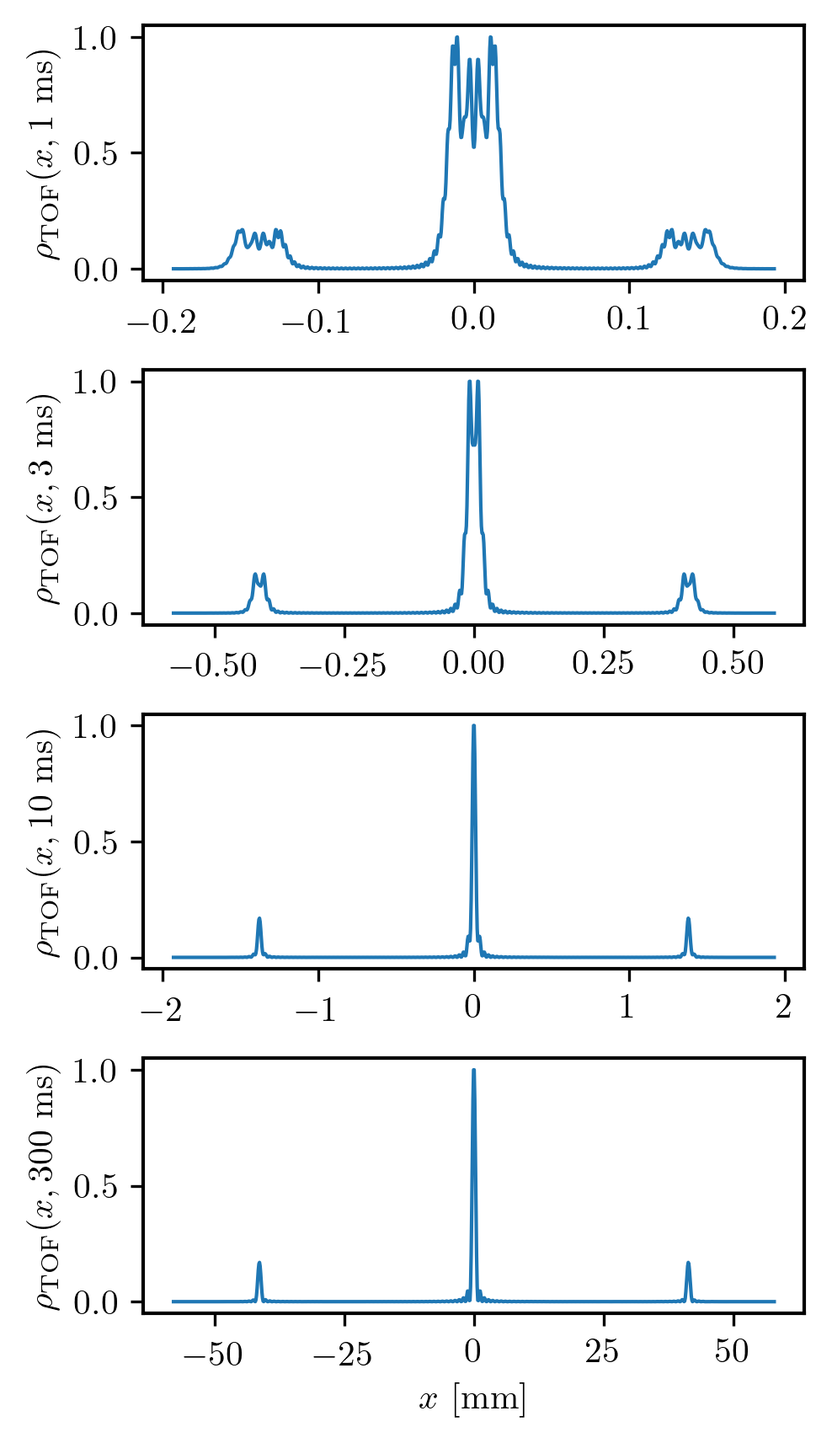
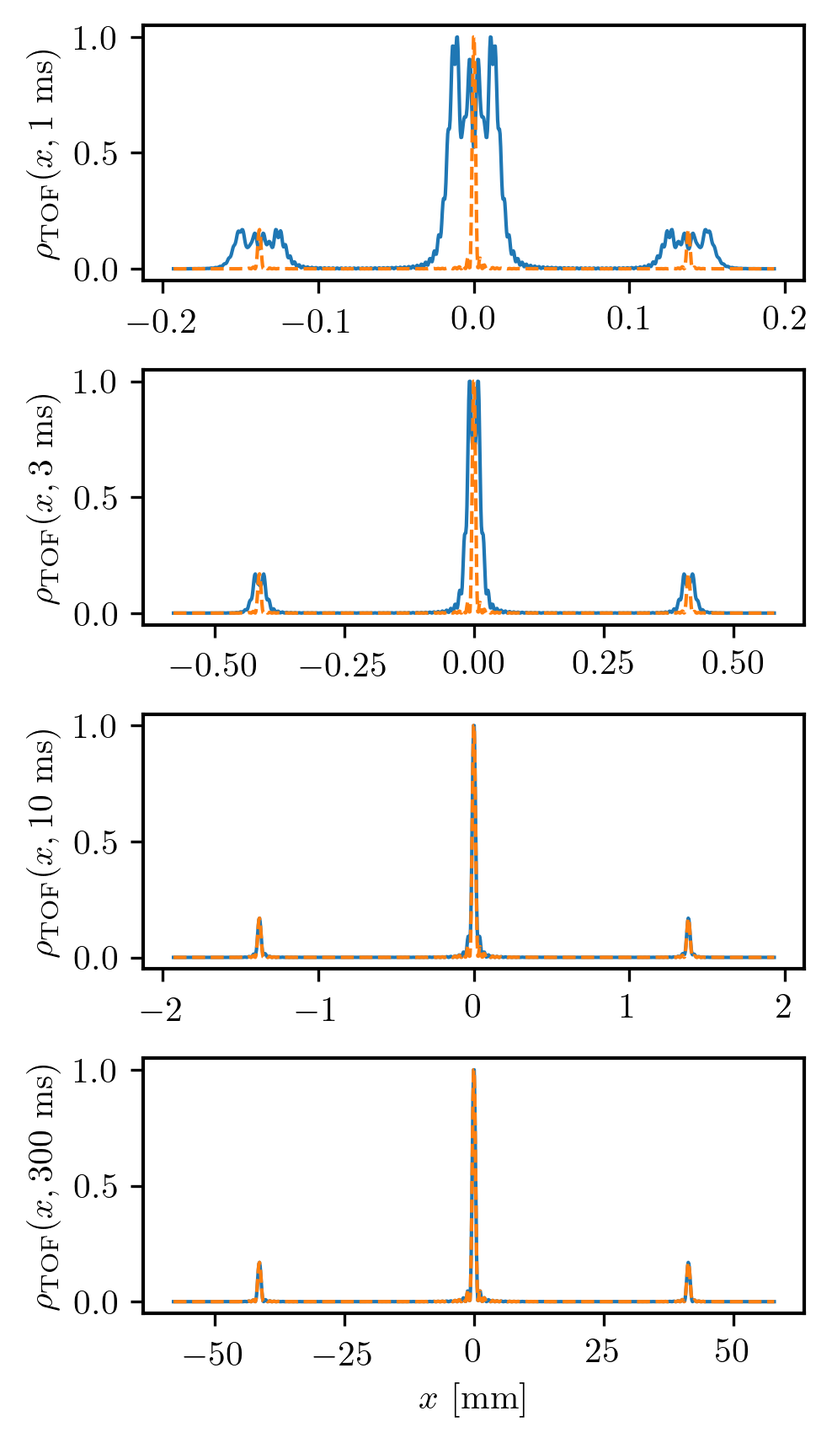
corrections chapitre 2

diff --git a/Chapters/Chapter2_BH_Model.tex b/Chapters/Chapter2_BH_Model.tex
@@ -4,9 +4,9 @@
 
 \label{sec:chapter_2}
 
-Quantum gases loaded in optical lattices (lattice gases for short) are one of the paramount examples of Quantum Simulation systems. The periodical trapping potential indeed well reproduces the crystal structure of condensed matter system and allows to study relatively simple Hamiltonians such as the Bose-Hubbard Hamiltonian or the Ising model \cite{bloch2005ultracold} that however account for interactions and show strong correlations effects. The main advantages of this experimental platform is that the different parameters of the Hamiltonians are easily set and controlled, while information about the system are relatively easy to access via quantum microscopes \cite{bakr2009quantum} for the in-situ positions of the atoms or Time-Of-Flight experiments to access the momentum distribution as it is the case in this manuscript. The experimental observation of the Superfluid to Mott Insulator transition in 2002 \cite{greiner2002quantum} sparked interest in the community and lead to the development of the field from the early 2000s up until this day.
+Quantum gases loaded in optical lattices (lattice gases for short) are one of the paramount examples of Quantum Simulation systems. The periodical trapping potential indeed well reproduces the crystal structure of condensed matter system and allows to study relatively simple Hamiltonians such as the Bose- and Fermi-Hubbard Hamiltonians or the Ising model \cite{bloch2005ultracold} that however account for interactions and show strong correlations effects. The main advantages of this experimental platform is that the different parameters of the Hamiltonians are easily set and controlled, while information about the system are relatively easy to access via quantum microscopes \cite{bakr2009quantum} for the in-situ positions of the atoms or Time-Of-Flight experiments to access the momentum distribution as it is the case in this manuscript. Following the proposition of \cite{jaksch1998cold}, the experimental observation of the Superfluid to Mott Insulator transition in 2002 \cite{greiner2002quantum} sparked interest in the community and lead to the development of the field from the early 2000s up until this day.
 
-In this chapter, we will detail the main elements of the Bose-Hubbard theory of lattice gases and briefly study the Superfluid to Mott insulator transition. We will then show how and under which conditions the in-trap momentum distribution of the gas can be accessed through Time-Of-Flight measurements, before drawing the connection with the Bogoliubov theory exposed in Chapter \ref{sec:chapter_1}. The goal of this chapter is to give all the essential points necessary to obtain a system in which the \kmk pairs of the quantum depletion can be experimentally observed, rather than providing a detailled description of Bose-Hubbard physics. For a more thorough study of the Superfluid to Mott Insulator transition with our experimental apparatus, we refer the reader to the manuscript of Cécile Carcy \cite{carcy_these}.
+In this chapter, we expose the main elements of the Bose-Hubbard theory of lattice gases and briefly study the Superfluid to Mott insulator transition. We then show how and under which conditions the in-trap momentum distribution of the gas can be accessed through Time-Of-Flight measurements, before drawing the connection with the Bogoliubov theory exposed in Chapter \ref{sec:chapter_1}. The goal of this chapter is to give all the essential points necessary to obtain a system in which the \kmk pairs of the quantum depletion can be experimentally observed, rather than providing a detailled description of Bose-Hubbard physics. For a more thorough study of the Superfluid to Mott Insulator transition with our experimental apparatus, we refer the reader to the manuscript of Cécile Carcy \cite{carcy_these}.
 
 
 
@@ -21,9 +21,9 @@ We consider a 3D lattice potential with cubic symmetry and spacing $d$:
     V(\bm{r})=V_{0}\left[\sin ^{2}\left(\frac{k_{d}}{2} x\right)+\sin ^{2}\left(\frac{k_{d}}{2} y\right)+\sin ^{2}\left(\frac{k_{d}}{2} z\right)\right] + V_{\mathrm{ext}} (x,y,z)
 \end{equation}
 
-\noindent where $k_d=\frac{2 \pi}{d}$ is the associated wavevector, $V_0$ the lattice depth. For convenience, $V_0$ is usually expressed in units of recoil energy $V_0 = s E_{\rm{r}}$ with $E_r=h^2/ 8 m d^2$. The term $V_{\mathrm{ext}} (x,y,z)$ denotes a harmonic potential related to the Gaussian shape of the lattice beams. For simplicity of calculations, we will first treat here the homogeneous case $V_{\mathrm{ext}} (x,y,z)=0$.
+\noindent where $k_d=\frac{2 \pi}{d}$ is the associated wavevector, $V_0$ the lattice depth. For convenience, $V_0$ is usually expressed in units of recoil energy $V_0 = s E_{\rm{r}}$ with $E_r=h^2/ 8 m d^2$. In most experiments, such a potential is created with countra-propagating pairs of Gaussian laser beams. The term $V_{\mathrm{ext}} (x,y,z)$ denotes the additional harmonic potential that results from the Gaussian shape of the beams. For simplicity of calculations, we will first treat here the homogeneous case $V_{\mathrm{ext}} (x,y,z)=0$.
 
-We consider an ensemble of $N$ atoms that interact with one another with the potential $U_{\rm{int}} ( \bm{r}_1, \bm{r}_2)$ loaded in the lattice potential $V(\bm{r})$. The Hamiltonian of the system writes:
+We consider an ensemble of $N$ bosons that interact with one another with the potential $U_{\rm{int}} ( \bm{r}_1, \bm{r}_2)$ loaded in the lattice potential $V(\bm{r})$. The Hamiltonian of the system writes:
 
 \begin{equation}
     \hat{H}=\sum_{i=1}^{N} \frac{\bm{p}_{i}^{2}}{2 m}+\sum_{i=1}^{N} V\left(\bm{r}_{i}\right) + \sum_{i}^{N} \sum_{j>i}^{N} U_{\text{int}}\left(\bm{r}_{i}, \bm{r}_{j}\right)
@@ -32,7 +32,7 @@ We consider an ensemble of $N$ atoms that interact with one another with the pot
 
 \subsubsection{Non-interacting lattice gas}
 
-To begin, we will consider that the atoms are non-interacting and study the simplified Hamiltonian:
+To begin with, we consider that the atoms are non-interacting and study the simplified Hamiltonian:
 
 \begin{equation}
     \hat{H}_0=\sum_{i=1}^{N} \frac{\bm{p}_{i}^{2}}{2 m}+\sum_{i=1}^{N} V\left(\bm{r}_{i}\right)
@@ -132,7 +132,7 @@ We can now re-write the Hamiltonian of the system with the newly introduced Wann
 
 \noindent This expression tells that the probability for a particle to tunnel from lattice site $j$ to $j'$ is reduced as the distance between the two sites $j$ and $j'$ increases and as the potential barrier, \ie the lattice depth, increases.
 
-As for the rest of this thesis, we will focus ourselves on the ground-state properties of the system and therefore assume that the lowest energy band is the only one populated. This assumption is valid as long as $V_0 \geq 2.2 \ E_{\rm{r}}$ at which the gap is opening. In addition, for $V_0 \geq 3 \ E_{\rm{r}}$, we can use the tight-binding approximation for which only the tunneling events between adjacent sites are non-negligible. We thus simplify the Hamiltonian \ref{eq:H_Jn} by replacing  $J_{n}\left(j-j^{\prime}\right)$ by a constant $J$ denoting the probability to tunnel between adjacent lattice sites that we define as:
+As for the rest of this thesis, we will focus ourselves on the ground-state properties of the system and therefore assume that the lowest energy band is the only one populated. This assumption is valid as long as $V_0 \geq 2.2 \ E_{\rm{r}}$ at which the gap is opening and the typical excitation energy $\Delta E$ is small than the gap $\Delta=E_1-E_0$. In addition, for $V_0 \geq 5 \ E_{\rm{r}}$ \cite{gerbier_notes}, we can use the tight-binding approximation for which only the tunneling events between adjacent sites are non-negligible. We thus simplify the Hamiltonian \ref{eq:H_Jn} by replacing  $J_{n}\left(j-j^{\prime}\right)$ by a constant $J$ denoting the probability to tunnel between adjacent lattice sites that we define as:
 
 \begin{equation}
     J=-J_0(1)
@@ -174,13 +174,13 @@ We now turn to studying the interaction term that we had left out in the full Ha
     \label{eq:h_int_intermediate}
 \end{equation}
 
-\noindent which is still a fairly complicated expression. We can however greatly simplify it by considering that the Wannier functions become narrower as the lattice depth increases. The overlap between the Wannier functions of the different lattice sites then becomes increasingly negligible. This means that the integral of equation \ref{eq:h_int_intermediate} is non zero only if $j_1=j_2=j_3=j_4$, \ie if we only consider on-site interactions. In the end, the interaction Hamiltonian writes:
+\noindent which is still a fairly complicated expression. We can however greatly simplify it by considering that the Wannier functions become narrower as the lattice depth increases. The overlap between the Wannier functions of the different lattice sites then becomes increasingly negligible. This means that the integral of equation \ref{eq:h_int_intermediate} is non zero only if $j_1=j_2=j_3=j_4$, \ie if we only consider on-site interactions. This is called the tight-binding approximation. In the end, the interaction Hamiltonian writes:
 
 \begin{equation}
     \hat{H}_{\rm{int}}=\frac{U_{\mathrm{1D}}}{2} \sum_j \hat{n}_j (\hat{n}_j -1)
 \end{equation}
 
-\noindent where we have introduced the on-site energy $U_{\mathrm{1D}}=g \int\left|w_{0,0}(x)\right|^{4} \mathrm{d}x$, easily generalized to the 3D case with $U=g \int(\left|w_{0,0}(x)\right|^{4} \mathrm{d}x)^3$. 
+\noindent where we have introduced the on-site energy $U_{\mathrm{1D}}=g \int\left|w_{0,0}(x)\right|^{4} \mathrm{d}x$, easily generalized to the 3D case with $U=g (\int\left|w_{0,0}(x)\right|^{4} \mathrm{d}x)^3$. 
 
 Combining this Hamiltonian to the non-interacting Hamiltonian of equation \ref{eq:H_band}, we reach the form of the famous \textbf{Bose-Hubbard Hamiltonian}:
 
@@ -188,7 +188,7 @@ Combining this Hamiltonian to the non-interacting Hamiltonian of equation \ref{e
     \hat{H}_{\mathrm{BH}}= -J \sum_{\mean{i,j}} \hat{b}^{\dagger}_i \hat{b}_j + \frac{U}{2} \sum_j \hat{n}_j (\hat{n}_j -1)
 \end{equation}
 
-\noindent Interestingly, the physics of the homogeneous ground-state depends only from the two parameters $J$ and $U$ as we will see in the next paragraph. In particular, the ratio $u=U/J$ depends from the lattice depth $V_0$ as illustrated on Fig-\ref{fig:U_J_vs_s}. This parameter is easily controllable in an experiment, for instance by changing the power of the laser beams used to produce the lattice potential. 
+\noindent The physics of the homogeneous ground-state depends only from the two parameters $J$ and $U$ as we will see in the next paragraph. Interestingly, the ratio $u=U/J$ depends from the lattice depth $V_0$ as illustrated on Fig-\ref{fig:U_J_vs_s}. The parameter $u$ is therefore easily controllable in an experiment over orders of magnitude, for instance by changing the power of the laser beams used to produce the lattice potential. 
 
 \begin{figure}
     \centering
@@ -200,7 +200,7 @@ Combining this Hamiltonian to the non-interacting Hamiltonian of equation \ref{e
 \begin{figure}
     \centering
     \includegraphics[width=\textwidth]{Fig/Chapter2/U_J_vs_s.png}
-    \caption[Evolution of $U$, $J$ and the ratio $U/J$ as a function of the lattice depth in log-scale]{Evolution of $U$, $J$ and the ratio $U/J$ as a function of the lattice depth in log-scale.}
+    \caption[Evolution of $U$, $J$ and the ratio $U/J$ as a function of the lattice depth in log-scale]{Evolution of $U$, $J$ and the ratio $U/J$ as a function of the lattice depth in log-scale from a numerical calculation with Wannier functions.}
     \label{fig:U_J_vs_s}
 \end{figure}
 
@@ -212,7 +212,7 @@ We discuss in this section the properties of the Bose-Hubbard Hamiltonian ground
 
 \subsubsection{Perfect superfluid (SF) phase $\bm{u \to 0}$}
 
-In this case, the particles are non-interacting. In these conditions, the ground-state $\ket{\Psi_0}$ of the N particles system is simply the product of the single particle ground state wave-functions, \ie the Bloch wave-functions for $q=0$ \cite{bloch2008many}:
+In this case, the particles are non-interacting. In these conditions, the ground-state $\ket{\Psi_0}$ of the $N$ particles system is simply the product of the single particle ground state wave-functions, \ie the Bloch wave-functions for $q=0$ \cite{bloch2008many}:
 
 \begin{equation}
     \ket{\Psi_0}_{\mathrm{SF}} = \frac{1}{\sqrt{N!}} (\hat{c}^{\dagger}(\bm{q}=0))^N \ket{0} = \frac{1}{\sqrt{N !}}\left(\frac{1}{\sqrt{M}} \sum_{j=1}^{M} \hat{b}_{j}^{\dagger}\right)^{N} \ket{0}
@@ -233,7 +233,7 @@ In this case, the particles are non-interacting. In these conditions, the ground
 
 \noindent with $\alpha_i=\sqrt{\bar{n}} \ \forall i \in \Z$ and the normalization factor $\mathcal{N}_{i}=e^{-\left|\alpha_{i}\right|^{2} / 2}$. We thus find that the ground state can be described as a product of local coherent states associated to the different lattice sites.
 
-As we did in Chapter \ref{sec:chapter_1}, we can write the first-order correlation function between two different lattice sites $i$ and $j$ to characterize the coherence properties of the ground-state:
+As in Chapter \ref{sec:chapter_1}, we write the first-order correlation function between two different lattice sites $i$ and $j$ to characterize the coherence properties of the ground-state:
 
 \begin{equation}
     G^{(1)}(i,j)= \mean{\hat{b}^{\dagger}_i \hat{b}_j}
@@ -266,16 +266,16 @@ Because of the strong repulsive interactions, the particle localize on the latti
 \noindent This state is called the \textbf{Mott insulator} state \cite{fisher1989boson}. The first-order correlation function now writes
 
 \begin{equation}
-     G^{(1)}(i,j)= {}_{\mathrm{MI}} \bra{\Psi_0} \hat{b}^{\dagger}_i \hat{b}_j \ket{\Psi_0}_{\mathrm{MI}} = \delta_{i,j}
+     G^{(1)}(i,j)= {}_{\mathrm{MI}} \bra{\Psi_0} \hat{b}^{\dagger}_i \hat{b}_j \ket{\Psi_0}_{\mathrm{MI}} = \delta_{i,j} \bar{n}
 \end{equation}
 
-\noindent and is zero when we consider any pair of different lattice sites with $i \neq j$. In the limit $J \to 0$, the system is therefore incoherent.
+\noindent and is zero when we consider any pair of different lattice sites with $i \neq j$. In the limit $J \to 0$, the system is therefore fully incoherent.
 
 
 
 \subsection{The zero-temperature Mott phase transition}
 
-What can then be said from intermediates values of $U/J$? If we start from the case $J=0$ and progressively start increasing $J$, it becomes possible for the atoms to hop from site to site. When an atom hops to an adjacent site, the occupancy is increased, increasing the energy by $U$. When the gain in kinetic energy $J$ is smaller than $U$, this process is unfavorable and the atoms remain localized on the lattice sites. However, when $J$ is larger than $U$, the gain in kinetic energy outweighs the effect of the interactions and the atoms hop through the different sites of the lattice. The ground-state of the Bose-Hubbard then undergoes a phase transition as $U/J$ varies from an \textbf{insulating phase} to a \textbf{superfluid phase} with very different properties.
+What can then be said from intermediates values of $u=U/J$? If we start from the case $J=0$ and progressively start increasing $J$, it becomes possible for the atoms to hop from site to site. When an atom hops to an adjacent site, the occupancy is increased, increasing the energy by $U$. When the gain in kinetic energy $J$ is smaller than $U$, this process is unfavorable and the atoms remain localized on the lattice sites. However, when $J$ is larger than $U$, the gain in kinetic energy outweighs the effect of the interactions and the atoms hop through the different sites of the lattice. The ground-state of the Bose-Hubbard then undergoes a phase transition as $U/J$ varies from an \textbf{insulating phase} to a \textbf{superfluid phase} with very different properties.
 
 \begin{minipage}[t]{0.45\textwidth}
     \noindent \textbf{Superfluid phase}
@@ -284,13 +284,13 @@ What can then be said from intermediates values of $U/J$? If we start from the c
         \item The condensed fraction is non zero.
         \item The system shows long range coherence, \ie the phase is fixed.
         \item The on-site number of atoms is fluctuating.
-        \item For low values of $u$ far from the transition, the effect of interaction is small, so that we can use the Bogoliubov approximation as we will detail later in this chapter. We find that the excitation spectrum is gapless and phonon-like at low $q$.
+        \item For low values of $u$ (far from the transition), the effect of interaction is small, so that we can use the Bogoliubov approximation (detailled later in this chapter). We find that the excitation spectrum is gapless and phonon-like at low $q$.
     \end{itemize}
 \end{minipage}
 \begin{minipage}[t]{0.48\textwidth}
     \noindent \textbf{Insulating phase}
     \begin{itemize}
-        \item The atoms are well localized on the lattice sites.
+        \item The atoms are localized on the lattice sites.
         \item The condensed fraction is zero.
         \item The system is incoherent, the phase is fluctuating.
         \item The on-site number of atoms is well defined and non fluctuating.
@@ -307,7 +307,7 @@ What can then be said from intermediates values of $U/J$? If we start from the c
 
 \subsubsection{Phase diagram}
 
-In the homogeneous case, the properties of the system thus change dramatically when $u$ crosses the \textbf{Quantum Critical Point} (QCP) $u_c$. To discuss the value of $u_c$, we slightly complexify our model where we had only considered commensurate fillings, thus fixing the chemical potential that we now set to be a free parameter. We plot on Fig.-\ref{fig:mott_lobes} the full phase diagram function of $\mu/U$, set by the filling in the Mott insulator phase $\bar{n}$ and $J/U$. As the system is homogeneous, the filling $\bar{n}$ is independent of $u$. The grey dashed lines correspond to iso-filling lines for a given value of $\bar{n}$. For commensurate fillings, the iso-filling lines cross the Mott stability lobes at the critical ratio $u_c$ that increases as the filling increases. If the filling is however incommensurate (line $n=1+\varepsilon$), we notice that the system remains in the superfluid phase as long as $J \neq 0$. This is due to the fact that a small fraction of the atoms can delocalize over the whole lattice without being blocked by the interactions $U$ as there will never be two of these particles in the same site as a consequence of the fact that the filling is incommensurate.
+In the homogeneous case, the properties of the system thus change dramatically when $u=U/J$ crosses the \textbf{Quantum Critical Point} (QCP) $u_c$. To discuss the value of $u_c$, we slightly complexify our model where we had only considered commensurate fillings, thus fixing the chemical potential that we now set to be a free parameter. We plot on Fig.-\ref{fig:mott_lobes} the full phase diagram function of $\mu/U$, set by the filling in the Mott insulator phase $\bar{n}$ and $J/U$. As the system is homogeneous, the filling $\bar{n}$ is independent of $u$. The grey dashed lines correspond to iso-filling lines for a given value of $\bar{n}$. For commensurate fillings, the iso-filling lines cross the Mott stability lobes at the critical ratio $u_c$ that increases as the filling increases. If the filling is however incommensurate (line $n=1+\varepsilon$), we notice that the system remains in the superfluid phase as long as $J \neq 0$. This is due to the fact that a small fraction of the atoms can delocalize over the whole lattice without being blocked by the interactions $U$ as there will never be two of these particles in the same site as a consequence of the fact that the filling is incommensurate.
 
 \begin{figure}
     \centering
@@ -316,24 +316,40 @@ In the homogeneous case, the properties of the system thus change dramatically w
     \label{fig:mott_lobes}
 \end{figure}
 
+The value of $u_c$ was first calculated with mean-field theories giving out the general formula holding for any dimension $u_c=5.8z$ for $\bar{n}=1$ and $u_c=4 \bar{n} z$ for $\bar{n} \gg 1$, with $z$ being the number of nearest neighbors (6 in 3D, 4 in 2D and 2 in 1D). Later on, Quantum Monte Carlo (QMC) \NOTE{first time QMC ?} calculations \cite{capogrosso2007phase} simulating the 3D system for a filling $\bar{n}=1$ found $u_c=29.3(2)$, \ie slightly lower than the mean-field prediction $u_c=34.8$. For more details on this aspect, we refer the reader the the works of our team \cite{carcy_these,herce2021studying} studying the value of $u_c$ in our experiment. 
+
+
 
 \subsection{Trapping effects}
 
 \label{sec:ch2_trapping_effects}
 
-In practice, the system is not homogeneous as we require an external harmonic potential $V_{\rm{ext}}(\bm{r})$ to trap the atoms for experiments. The properties of the trapped system can be linked to the properties of the homogeneous system by applying the Local Density Approximation\footnote{Valid as long as the trapping potential varies slowly from site to site and the system is at thermal equilibrium. This approximation may however fail at the quantum critical point \cite{pollet2012recent}.} \cite{bergkvist2004local} and replacing the chemical potential by an effective one:
+In practice, the system is often not homogeneous because of the external harmonic potential $V_{\rm{ext}}(\bm{r})$ mentioned in \ref{sec:BH_model}. The properties of the trapped system can be linked to the properties of the homogeneous system by applying the Local Density Approximation\footnote{Valid as long as the trapping potential varies slowly from site to site and the system is at thermal equilibrium. This approximation may however fail at the quantum critical point \cite{pollet2012recent}.} \cite{bergkvist2004local} and replacing the chemical potential by an effective one:
 
 \begin{equation}
     \mu_{\rm{eff}}= \mu - V_{\rm{ext}}(\bm{r})
 \end{equation}
 
-\noindent This means that the effective chemical potential, and thus the lattice filling, varies with the distance from the center of the trap. A typical situation is illustrated by the red arrow on the phase diagram of Fig.-\ref{fig:mott_lobes} where $J/U$ is small enough for Mott phases to exist and the center of the trap corresponds to a filling $\bar{n}=2$. As we get away from the center of the trap towards regions of low $\mu_{\rm{eff}}$ following the red arrow, we exit the first Mott region $\bar{n}=2$ to enter a superfluid region where the filling decreases continuously up to a second Mott region with filling $\bar{n}=1$ and finally reach a last superfluid region at the edge of the trap at vanishing values of $\mu_{\rm{eff}}$. The Mott phases are incompressible, meaning that the density remains constant even though the external trapping potential is rising, differentiating them from the superfluid region. This results in the famous ``wedding-cake'' density profile as illustrated on panel (b) of Fig.-\ref{fig:mott_lobes}.
+\noindent This means that the effective chemical potential, and thus the lattice filling, varies with the distance from the center of the trap. A typical situation is illustrated by the red arrow on the phase diagram of Fig.-\ref{fig:mott_lobes} where $J/U$ is small enough for Mott phases to exist and the center of the trap corresponds to a filling $\bar{n}=2$. As we get away from the center of the trap towards regions of low $\mu_{\rm{eff}}$ following the red arrow, we exit the first Mott region $\bar{n}=2$ to enter a superfluid region where the filling decreases continuously up to a second Mott region with filling $\bar{n}=1$ and finally reach a last superfluid region at the edge of the trap at vanishing values of $\mu_{\rm{eff}}$. The Mott phases are incompressible, meaning that the density remains constant even though the external trapping potential is rising, differentiating them from the superfluid region. This results in the famous ``wedding-cake'' density profile as illustrated on panel (b) of Fig.-\ref{fig:mott_lobes} and Fig.-\ref{fig:sherson}.
 
-\noindent For clarity sake, the system will be said to be in the Mott Insulator phase as long as a Mott plateau exists, \ie when $u > u_c$ where $u_c$ is the critical point for the corresponding homogeneous sytem.
+Actually, the external harmonic potential is quite important for experiment. If the system is homogeneous and the entropy constant, when the lattice depth is increased thus going deeper in the Mott phase, the increase of the energy gap makes it increasingly difficult for excitations to be created meaning that the temperature must increase to keep the entropy constant. In the presence of a trap however, the entropy is concentrated in the superfluid shells that can also turn to a normal gas phase, preventing the temperature of the system from increasing too much.
+
+\noindent For clarity sake, the system will be said to be in the Mott Insulator phase as long as a Mott plateau exists, \ie when $u > u_c$ where $u_c$ is the critical point for the corresponding homogeneous system.
+
+\begin{figure}
+    \centering
+    \includegraphics[width=\textwidth]{Fig/Chapter2/wedding_cake_sherson.png}
+    \caption[Visualisation of the wedding cake structure with a quantum microscope experiment]{Visualisation of the wedding cake structure with a quantum microscope experiment. The imaging technique used here allows to detect the fluorescence of atoms trapped in a single site of an optical lattice, only if the number of atoms in the site is odd. We observe that as $N$ increases, the wedding cake structure appears. Taken from \cite{sherson2010single}.}
+    \label{fig:sherson}
+\end{figure}
 
 \subsection{Finite temperature effects}
 
-If we finally consider the effect of temperature, we obtain the complete phase diagram of Fig.-\ref{fig:phase_diagram} function of $T/J$ and $u$ with the apparition of an additional phase, the normal (thermal) gas. For $u \leq u_c$, the superfluid phase undergoes a condensation transition with temperature similar to the well-known BEC transition. This transition is induced by the thermal fluctuations and is then called classical, in opposition to the Mott transition which is driven by a variations of physical parameters of the Hamiltonian and therefore is a quantum transition. On the other hand, the Mott insulator phase also goes to the normal gas phase as the temperature increases, but with a smooth crossover. Interestingly, the Superfluid to Mott Insulator transition subsists at low temperature. The green area indicates the Quantum Critical Region for which we expect the critical quantum effects of the Mott transition to survive in spite of the temperature. While the physics of the Quantum Critical Point are a very interesting and trending topic, they fall out of the scope of this thesis and we once again refer the reader to \cite{carcy_these} for more informations on this aspect.
+If we finally consider the effect of temperature, we obtain the complete phase diagram of Fig.-\ref{fig:phase_diagram} function of $T/J$ and $u$ with the apparition of an additional phase, the normal (thermal) gas. For $u \leq u_c$, the transition between the normal gas phase and the superfluid phase driven by the temperature is similar to the well-known BEC transition. This transition is induced by the thermal fluctuations and is then called classical, in opposition to the $T=0$ Mott transition which is driven by a variations of physical parameters of the Hamiltonian and therefore is a quantum transition.
+
+On the other hand, the Mott insulator phase also goes to the normal gas phase as the temperature increases, but with a smooth crossover. When $T$ increases, excitations are created preferably near the edges of the Mott plateaus, progressively smoothing out the sharp density profile of the Mott insulator phase. A Mott-like region survives until $T* \sim 0.2 \ U/k_B$ \cite{gerbier2007boson} also called the ``melting temperature'' of the Mott phase.
+
+Interestingly, the Superfluid to Mott Insulator transition subsists at low temperature. At $T=0$ and at the quantum critical point (QCP) of the transition, the ground-state undergoes a macroscopic rearrangement characterized by the apparition of critical quantum fluctuations and complex correlation patterns. Importantly, the physics of the QCP affect a signficant part of the finite temperature phase diagram as signaled by the green area on Fig.\ref{fig:phase_diagram}. In this region, some observables such as the momentum density indeed show critical behavior, \ie a power law scaling with temperature with an exponent set by the critical exponents of the QCP. While the physics of the Quantum Critical Point are a very interesting and trending topic, they fall out of the scope of this thesis and we refer the reader to the works \cite{carcy_these,frerot2019reconstructing,sachdev2011quantum} for more informations on this aspect.
 
 
 \begin{figure}
@@ -377,7 +393,14 @@ The Gutzwiller method is a \textbf{variational} approach, meaning that the groun
     G = \mean{H_{\mathrm{BH}}}_{\ket{\Psi_G}} - \mu \mean{N}_{\ket{\Psi_G}} = -J \sum_{\langle i, j\rangle} \alpha_{i}^{*} \alpha_{j}+\sum_{j} \sum_{n_{j}=0}^{\infty}\left[\frac{U}{2} n_{j}\left(n_{j}-1\right)-\mu n_{j}\right]\left|f\left(n_{j}\right)\right|^{2}
 \end{equation}
 
-\noindent with the condition $\left\langle n_{j}\right\rangle=\sum_{n_{j}=0}^{\infty}\left|f_{j}\left(n_{j}\right)\right|^{2} n_{j}=\bar{n}$. The coefficients $f(n_j)$ can be found through numerical calculations. Interestingly, following the arguments of \ref{sec:ch2_trapping_effects}, $\mu$ can be replaced by the effective $\mu_{\rm{eff}}$ to account for the effect of the external trapping potential present in our experiment.
+\noindent with the condition $\left\langle n_{j}\right\rangle=\sum_{n_{j}=0}^{\infty}\left|f_{j}\left(n_{j}\right)\right|^{2} n_{j}=\bar{n}$. The coefficients $f(n_j)$ can be found through numerical calculations. Interestingly, following the arguments of \ref{sec:ch2_trapping_effects}, $\mu$ can be replaced by the effective $\mu_{\rm{eff}}$ to account for the effect of the external trapping potential present in our experiment. We shown on Fig.-\ref{fig:wedding_cake_gutzwiller} wedding cake density profiles for various atom numbers at $s=18$ with our experimental parameters computed with the Gutzwiller method.
+
+\begin{figure}
+    \centering
+    \includegraphics[width=\textwidth]{Fig/Chapter2/wedding_cake_gutzwiller.png}
+    \caption[Gutzwiller density profiles for various atom numbers at $s=18$]{Gutzwiller density profiles for various atom numbers at $s=18$.}
+    \label{fig:wedding_cake_gutzwiller}
+\end{figure}
 
 
 \section{Accessing the in-trap momentum distribution in a Time-Of-Flight experiment}
@@ -415,7 +438,7 @@ At time $t=0$, right before the lattice potential is turned off, the atomic fiel
 
 
 
-\noindent The expression of the Wannier functions is rather complex and very hard to handle in calculations. However, we can approximate the lattice potential near a minimum to its second-order Taylor expansion, \ie approximate it to a harmonic potential of frequency $\omega_L=2 \sqrt{s} (E_{\rm{r}}/\hbar)$ \cite{toth2008theory}. As illustrated in Fig.-\ref{fig:wannier_oh}, this means that the Wannier function can be well approximated by the Gaussian wave-function of the harmonic oscillator ground state:
+\noindent The expression of the Wannier functions is rather complex and very hard to handle in calculations. However, we can approximate the lattice potential near a minimum to its second-order Taylor expansion, \ie approximate it to a harmonic potential of frequency $\omega_L=2 \sqrt{s} (E_{\rm{r}}/\hbar)$ \cite{toth2008theory}. As illustrated in Fig.-\ref{fig:wannier_oh}, the Wannier function is be well approximated by the Gaussian wave-function of the harmonic oscillator ground state for amplitudes $V_0 \gtrsim 10 \ \rm{E_r}$ (note however that this does not approximate tunelling well as a Gaussian does not show the same small oscillations as the Wannier function):
 
 \begin{figure}
     \centering
@@ -457,7 +480,9 @@ Building up on the diffraction analogy, we would like to define an analog Fraunh
     \label{eq:far_field}
 \end{equation}
 
-\noindent This condition defines the \textbf{Far-Field regime} after which the interference pattern is well developed, in analogy to the Fraunhofer regime of diffraction. Combining the different approximations, we simplify \ref{eq:time_dependent_wannier} to:
+\noindent This condition defines the \textbf{Far-Field regime} after which the interference pattern is well developed, in analogy to the Fraunhofer regime of diffraction. We note the far-field regime is accessed for smaller times for lighter particles. Using one of the lightest atom, $^4 \rm{He}$, thus makes it easier to fulfill the Far-Field regime condition in the experiment. 
+
+Combining the different approximations, we simplify \ref{eq:time_dependent_wannier} to:
 
 \begin{equation}
     w\left(x-x_{j}, t\right)=\sqrt{\frac{m}{\hbar t}} \tilde{w_0}[Q(x,t)] \exp\left(-i \frac{\hbar Q(x,t)^{2}}{2 m} \right) \exp\left(i Q(x,t) x_{j}\right)
@@ -483,7 +508,7 @@ Now that we have the general expression of $w\left(x-x_{j}, t\right)$, we genera
 \begin{figure}
     \centering
     \includegraphics[width=0.7\textwidth]{Fig/Chapter2/TOF_expansion.png}
-    \caption{Numerical simulation of the atomic density $\rho_{\rm{TOF}}(x,t)$ after various expansion times from a 1D lattice of 50 sites with $s=5$.}
+    \caption{Numerical simulation of the atomic density $\rho_{\rm{TOF}}(x,t)$ after various expansion times from a 1D lattice of 50 sites with $s=5$. The orange dashed line serves as a point of comparison with the asymptotic distribution for high TOF times representing the momentum distribution.}
     \label{fig:sim_expansion}
 \end{figure}
 
@@ -512,7 +537,7 @@ In conclusion, under the conditions that there are no interactions during the TO
 
 \subsubsection{Momentum distribution across the Mott transition}
 
-As we have just seen, the momentum distribution is strongly dependent from the coherence properties of the system and in turn of the lattice depth.
+As we have just seen, the momentum distribution is strongly dependent on the coherence properties of the system and in turn of the lattice depth.
 
 \begin{itemize}
     \item In the superfluid phase $u \to 0$, the system is coherent $G^{(1)}(i,j) = \bar{n}$. From equation \ref{eq:momentum_distribution}, we get that the momentum distribution consists of sharp analog diffraction peaks located at $\bm{k} = j k_d \bm{e}_i$ with $j \in \Z$ and $\bm{e}_i$ the unitary vector in direction $i=x,y,z$. In terms of $\rho_{\rm{TOF}}(\bm{r},t)$, the amplitude of the different peaks is set by the Fourier transform of the Wannier function. 
@@ -522,9 +547,9 @@ As we have just seen, the momentum distribution is strongly dependent from the c
     \item For intermediate values of $u$, the visibility of the interference pattern progressively decreases as $u$ increases. In addition, as $V_0$ increases, the Wannier function is more and more localized so that the width of its Fourier transform increases. As a result, the population of the diffracted peaks increases with the lattice depth.
 \end{itemize}
 
-The experimental quantity $\rho_{\rm{TOF}}(\bm{r},t)$ is therefore a powerful tool to characterize the phase of the system across the Mott transition. This is illustrated on Fig-\ref{fig:mott_greiner} of the first experimental observation of the Mott transition with cold atoms \cite{greiner2002quantum}, on which we can clearly see the visibility of the interference pattern decreasing with $V_0$.
+The experimental quantity $\rho_{\rm{TOF}}(\bm{r},t)$ is therefore a powerful tool to characterize the phase of the system across the Mott transition. This is illustrated on Fig-\ref{fig:mott_greiner} of the first experimental observation of the Mott transition with cold atoms \cite{greiner2002quantum}, on which we can clearly see the visibility of the interference pattern decreasing with $V_0$ (note that these images are not taken deep in the far-field regime, meaning that some details of the interference pattern are not resolved).
 
-Importantly, a characteristic of the Superfluid to Mott insulator transition is that even though the system is incoherent in the insulating phase, the coherence can be restored by ramping down the lattice depth to the superfluid phase. The standard procedure to characterize the presence of the Mott transition is then to set $V_0$ to be in the superfluid region, ramp up it up to see that the interference pattern disappear, and ramp it down to find back the interference pattern. This allows to certify that the loss of coherence is indeed an effect of the competition between $U$ and $J$ and not an experimental defect, such as unwanted heating of the cloud. 
+Importantly, a characteristic of the Superfluid to Mott insulator transition is that even though the system is incoherent in the insulating phase, the coherence can be restored by ramping down the lattice depth to the superfluid phase. The standard procedure to characterize the presence of the Mott transition is then to set $V_0$ to be in the superfluid region, ramp up it up to see that the interference pattern disappear, and ramp it down to find back the interference pattern. This allows to certify that the loss of coherence is indeed an effect of the competition between $U$ and $J$ and not an experimental artifact, such as unwanted heating of the cloud. 
 
 \begin{figure}
     \centering
@@ -540,7 +565,7 @@ The experimental technique described in the last paragraph holds if there are no
 
 Describing the interactions between each of the individual particles would be impossible, even for numerical methods for which the calculation time would be prohibitive. To circumvent this issue, the problem can be simplified using the \textbf{mean-field approximation}. The idea is to approximate the effect of the interactions of every atoms on a single one as an \textbf{average} single effect. This considerably simplifies the many-body problem, reducing it to an effective one-body problem.
 
-To quantify the effect of the interactions treated at the mean-field level, we introduce the interaction energy $U_{\rm{int}} \sim gn$ with $g$ the strength of the interactions and $n$ the atomic density. To determine whether the interactions are affecting the expansion of the gas released from the lattice, $U_{\rm{int}}$ must be compared to the zero point energy of the ground-state of the approximate harmonic oscillator associated to a single lattice site, $\hbar \omega_L$. In typical experimental conditions, $U_{\rm{int}}/h \approx 10^3 \ \rm{Hz} \ll \omega_L/2 \pi \approx 10^5-10^6 \ \rm{Hz}$, meaning that the initial expansion is driven by the zero point energy of the lattice and not the released interaction energy. In addition, after a small expansion time, the Wannier functions of the different sites overlap as their width become of the order of the lattice spacing $d$ and might then interact. However, on this time scale, the atomic density is reduced by a factor $(x_0/d)^3 \approx 10^2$ (for $s=10$), meaning that this interaction effect should also negligible \cite{gerbier2008expansion}, provided that the initial density is not too high. This point will be discussed in further details in light of experimental data in Chapter \ref{sec:chapter_3}.
+To quantify the effect of the interactions treated at the mean-field level, we introduce the interaction energy $U_{\rm{int}} \sim gn$ with $g$ the strength of the interactions and $n$ the atomic density. To determine whether the interactions are affecting the expansion of the gas released from the lattice, $U_{\rm{int}}$ must be compared to the zero point energy of the ground-state of the approximate harmonic oscillator associated to a single lattice site, $\hbar \omega_L$. In typical experimental conditions, $U_{\rm{int}}/h \approx 10^3 \ \rm{Hz} \ll \omega_L/2 \pi \approx 10^5-10^6 \ \rm{Hz}$, meaning that the initial expansion is driven by the zero point energy of the lattice site and not the released interaction energy. In addition, after a small expansion time, the Wannier functions of the different sites overlap as their width become of the order of the lattice spacing $d$ and might then interact. However, on this time scale, the atomic density is reduced by a factor $(x_0/d)^3 \approx 10^2$ (for $s=10$), meaning that this interaction effect should also negligible \cite{gerbier2008expansion}, provided that the initial density is not too high. This point will be discussed in further details in light of experimental data in Chapter \ref{sec:chapter_3}.
 
 As developed in \cite{kupferschmidt2010role}, the interactions can also induce a dephasing between the different sites. As a matter of fact, the time evolution of the phase of the wave-function associated to a lattice site depends on its initial energy, and therefore of $U_{\rm{int}}$. If the lattice sites have different lattice fillings, which typically is the case in the superfluid phase where the on-site atom number fluctuations are large, the different interfering wave-functions can be dephased from one another, reducing the visibility of the interference pattern. This effect is however also negligible \cite{gerbier2008expansion,kupferschmidt2010role} in the case of our 3D lattice where $a_s \ll x_0$, provided that the filling is not too high.
 
@@ -617,7 +642,7 @@ We turn to calculating the interaction term in equation \ref{eq:lattice_bogo_ham
 \noindent with $g'$ the rescaled interaction strength defined as:
 
 \begin{equation}
-    g' = g \left(d \int_0^d |u_{0,0} (x)|^4 \mathrm{d}x \right)^3
+    g' = g \left(d \int_0^d |w_{0,0} (x)|^4 \mathrm{d}x \right)^3
 \end{equation}
 
 \noindent that rewrites as:

diff --git a/Chapters/Chapter5_1D_gas.tex b/Chapters/Chapter5_1D_gas.tex
@@ -2,16 +2,16 @@
 
 \chapter{Towards measuring Tan's contact in 1D gases}
 
-For the last chapter of this thesis, we will depart from the main line set by the \kmk correlations of the quantum depletion and shift our attention to a different topic that exploits another feature of the single atom resolution of our experiment. While we have used it so far to look for correlations between individual particles, a strong advantage that we have overlooked is the possibility to detect very low densities signals inaccessible with optical measurements. An example of such a signal is the $k^{-4}$ tails in the momentum density of 1D gases, also known as Tan's contact \cite{tan2008large}. 
+For the last chapter of this thesis, we will depart from the main line set by the \kmk correlations of the quantum depletion and shift our attention to a different topic that exploits another feature of the single atom resolution of our experiment. While we have used it so far to look for correlations between individual particles, another strong advantage of our apparatus is the possibility to detect very low densities signals inaccessible with optical measurements. An example of such a signal is the $k^{-4}$ tails in the momentum density of 1D gases, also known as Tan's contact \cite{tan2008large}. 
 
-As we will see in the first section of this chapter, Tan's contact is a fascinating and promising universal quantity that can be used the characterize many different systems, especially 1D gases, in level of details inaccessible with more common experimental techniques. We will then quickly summarize the main points of the theoretical work \cite{yao2018tan} on which we will rely to interpret our experimental data. We will then explain how 1D physics can be effectively implemented with our experimental apparatus and detail the procedure to measure Tan's contact, before discussing the first preliminary results.
+As we will see in the first section of this chapter, Tan's contact is a fascinating and promising universal quantity that can be used the characterize many different systems, especially 1D gases, in level of details inaccessible with more common experimental techniques. We will then quickly summarize the main points of the theoretical work \cite{yao2018tan} on which we will rely to interpret our experimental data. We will next explain how 1D physics can be effectively implemented with our experimental apparatus and detail the procedure used to measure Tan's contact, before discussing the first preliminary results.
 
 
 \section{Tan's contact}
 
 \subsection{Definition from the large momentum tails}
 
-To understand what Tan's contact is, we consider two atoms with contact interactions in the ultracold regime in 1D. The two-body wave-function then only depends from the inter-particle distance $r$ and the scattering length $a_s$ \cite{viverit2004momentum}:
+To understand what Tan's contact is, we consider two atoms with contact interactions in the ultracold regime in 1D. The two-body wave-function then only depends from the inter-particle distance $r$ and the $s$-wave scattering length $a_s$ \cite{viverit2004momentum}:
 
 \begin{equation}
     \psi(r) = - \frac{r}{a_s} \, e^{-r/a_s}
@@ -23,7 +23,7 @@ To understand what Tan's contact is, we consider two atoms with contact interact
     \tilde{\psi}(k) = \int_0^\infty \psi(r) \, e^{2 \pi i k r} \, dr \propto \frac{1}{(i 2 \pi k - 1/a_s)^2}
 \end{equation}
 
-\noindent from which we obtain the momentum distribution:
+\noindent from which we obtain the momentum density:
 
 \begin{equation}
      \rho(k) = |\tilde{\psi}(k) |^2 \propto \frac{1}{2(2 \pi k a_s)^4 - 2(2 \pi k a_s)^2 +1}
@@ -64,7 +64,7 @@ While the $\kmf$ scaling is universal, the value of $C$ depends on the physical 
     C=\left.\frac{4 m}{\hbar^{2}} \frac{\partial \Omega}{\partial a_{1 D}}\right|_{T, \mu}
 \end{equation}
 
-\noindent with $\Omega$ the grand potential. This result can also be rewritten to include the interaction energy of the system $\mean{H_{\rm{int}}}$ that we have encountered quite a lot throughout this thesis and that is usually hard to measure separately from the total energy:
+\noindent with $\Omega$ the grand potential and $a_{\rm{1D}}$ the 1D scattering length. This result can also be rewritten to include the interaction energy of the system $\mean{H_{\rm{int}}}$ that we have often encountered throughout this thesis and that is usually hard to measure separately from the total energy:
 
 \begin{equation}
     C=\frac{2 g m^{2}}{\hbar^{4}}\left\langle H_{\text {int }}\right\rangle
@@ -121,7 +121,7 @@ At first glance, Tan's contact should depend from 4 parameters:
     \label{eq:xi_gamma}
 \end{equation}
 
-\noindent with $a_{\rm{ho}}=\sqrt{\hbar/m \omega_{\rm{1D}}}$ the harmonic oscillator length and $a_{\rm{1D}}=\hbar/m \omega_{\perp} a_s$ the 1D scattering length. The second one is the reduced temperature:
+\noindent with $a_{\rm{ho}}=\sqrt{\hbar/m \omega_{\rm{1D}}}$ the harmonic oscillator length. The second one is the reduced temperature:
 
 \begin{equation}
     \xi_T=-a_{\rm{1D}}/\lambda_T
